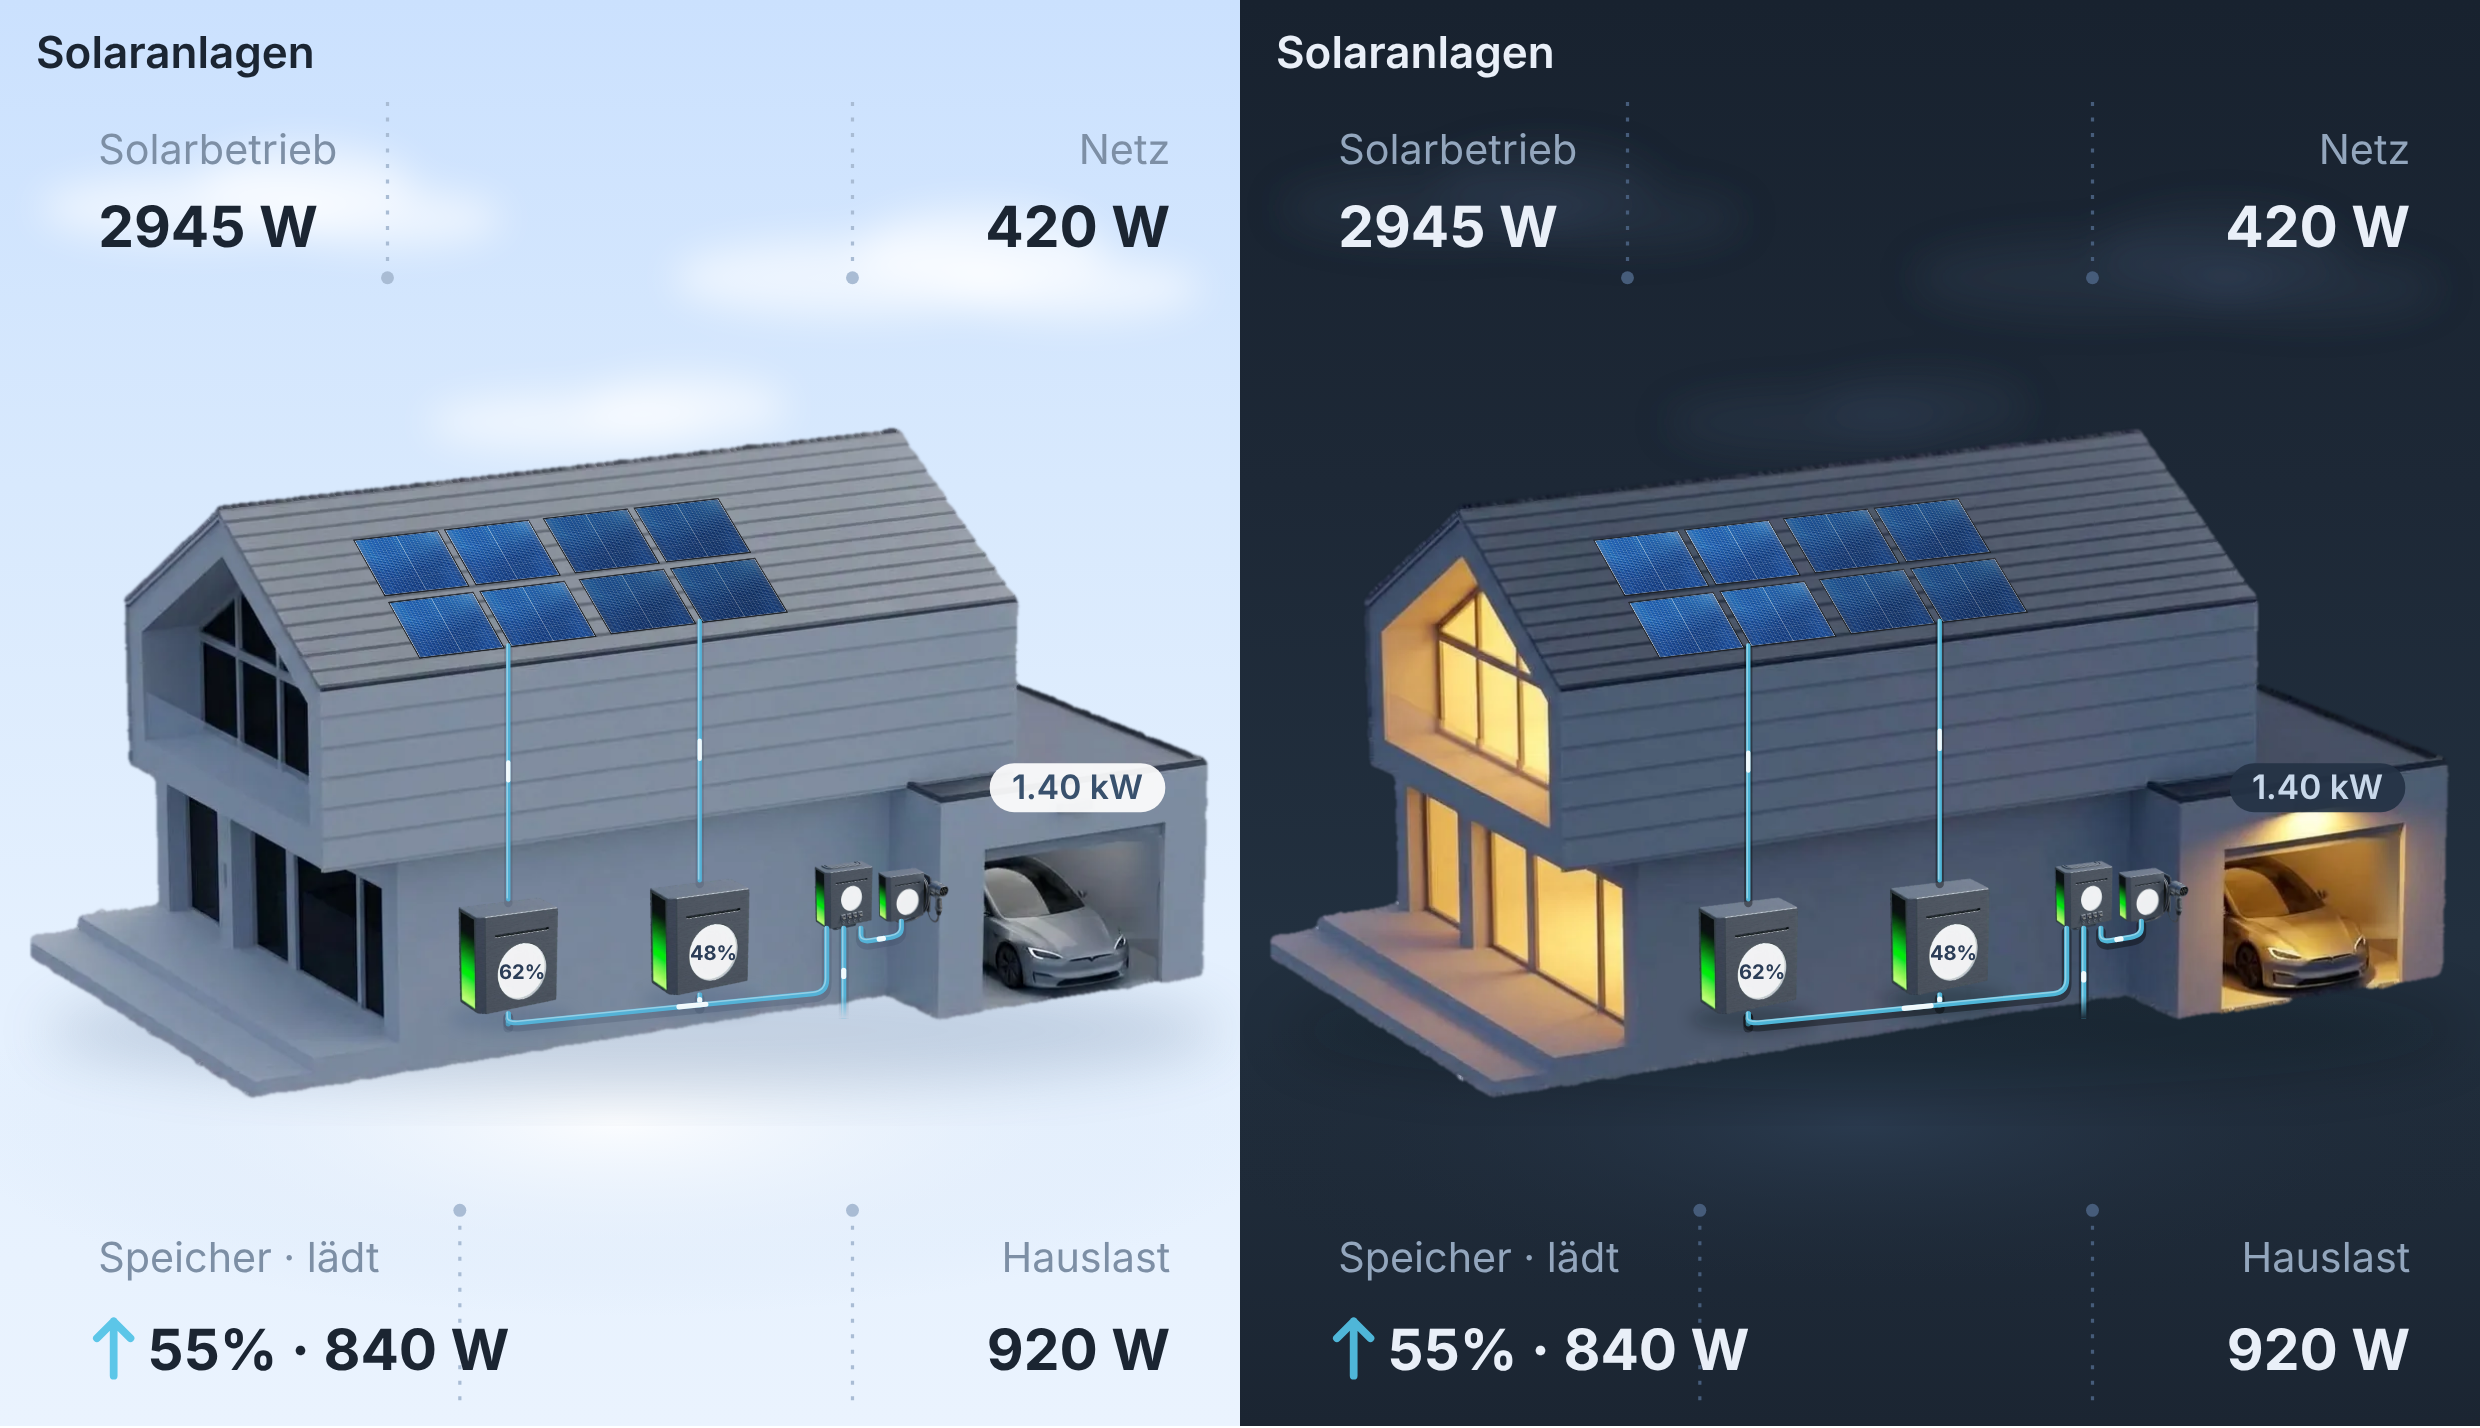
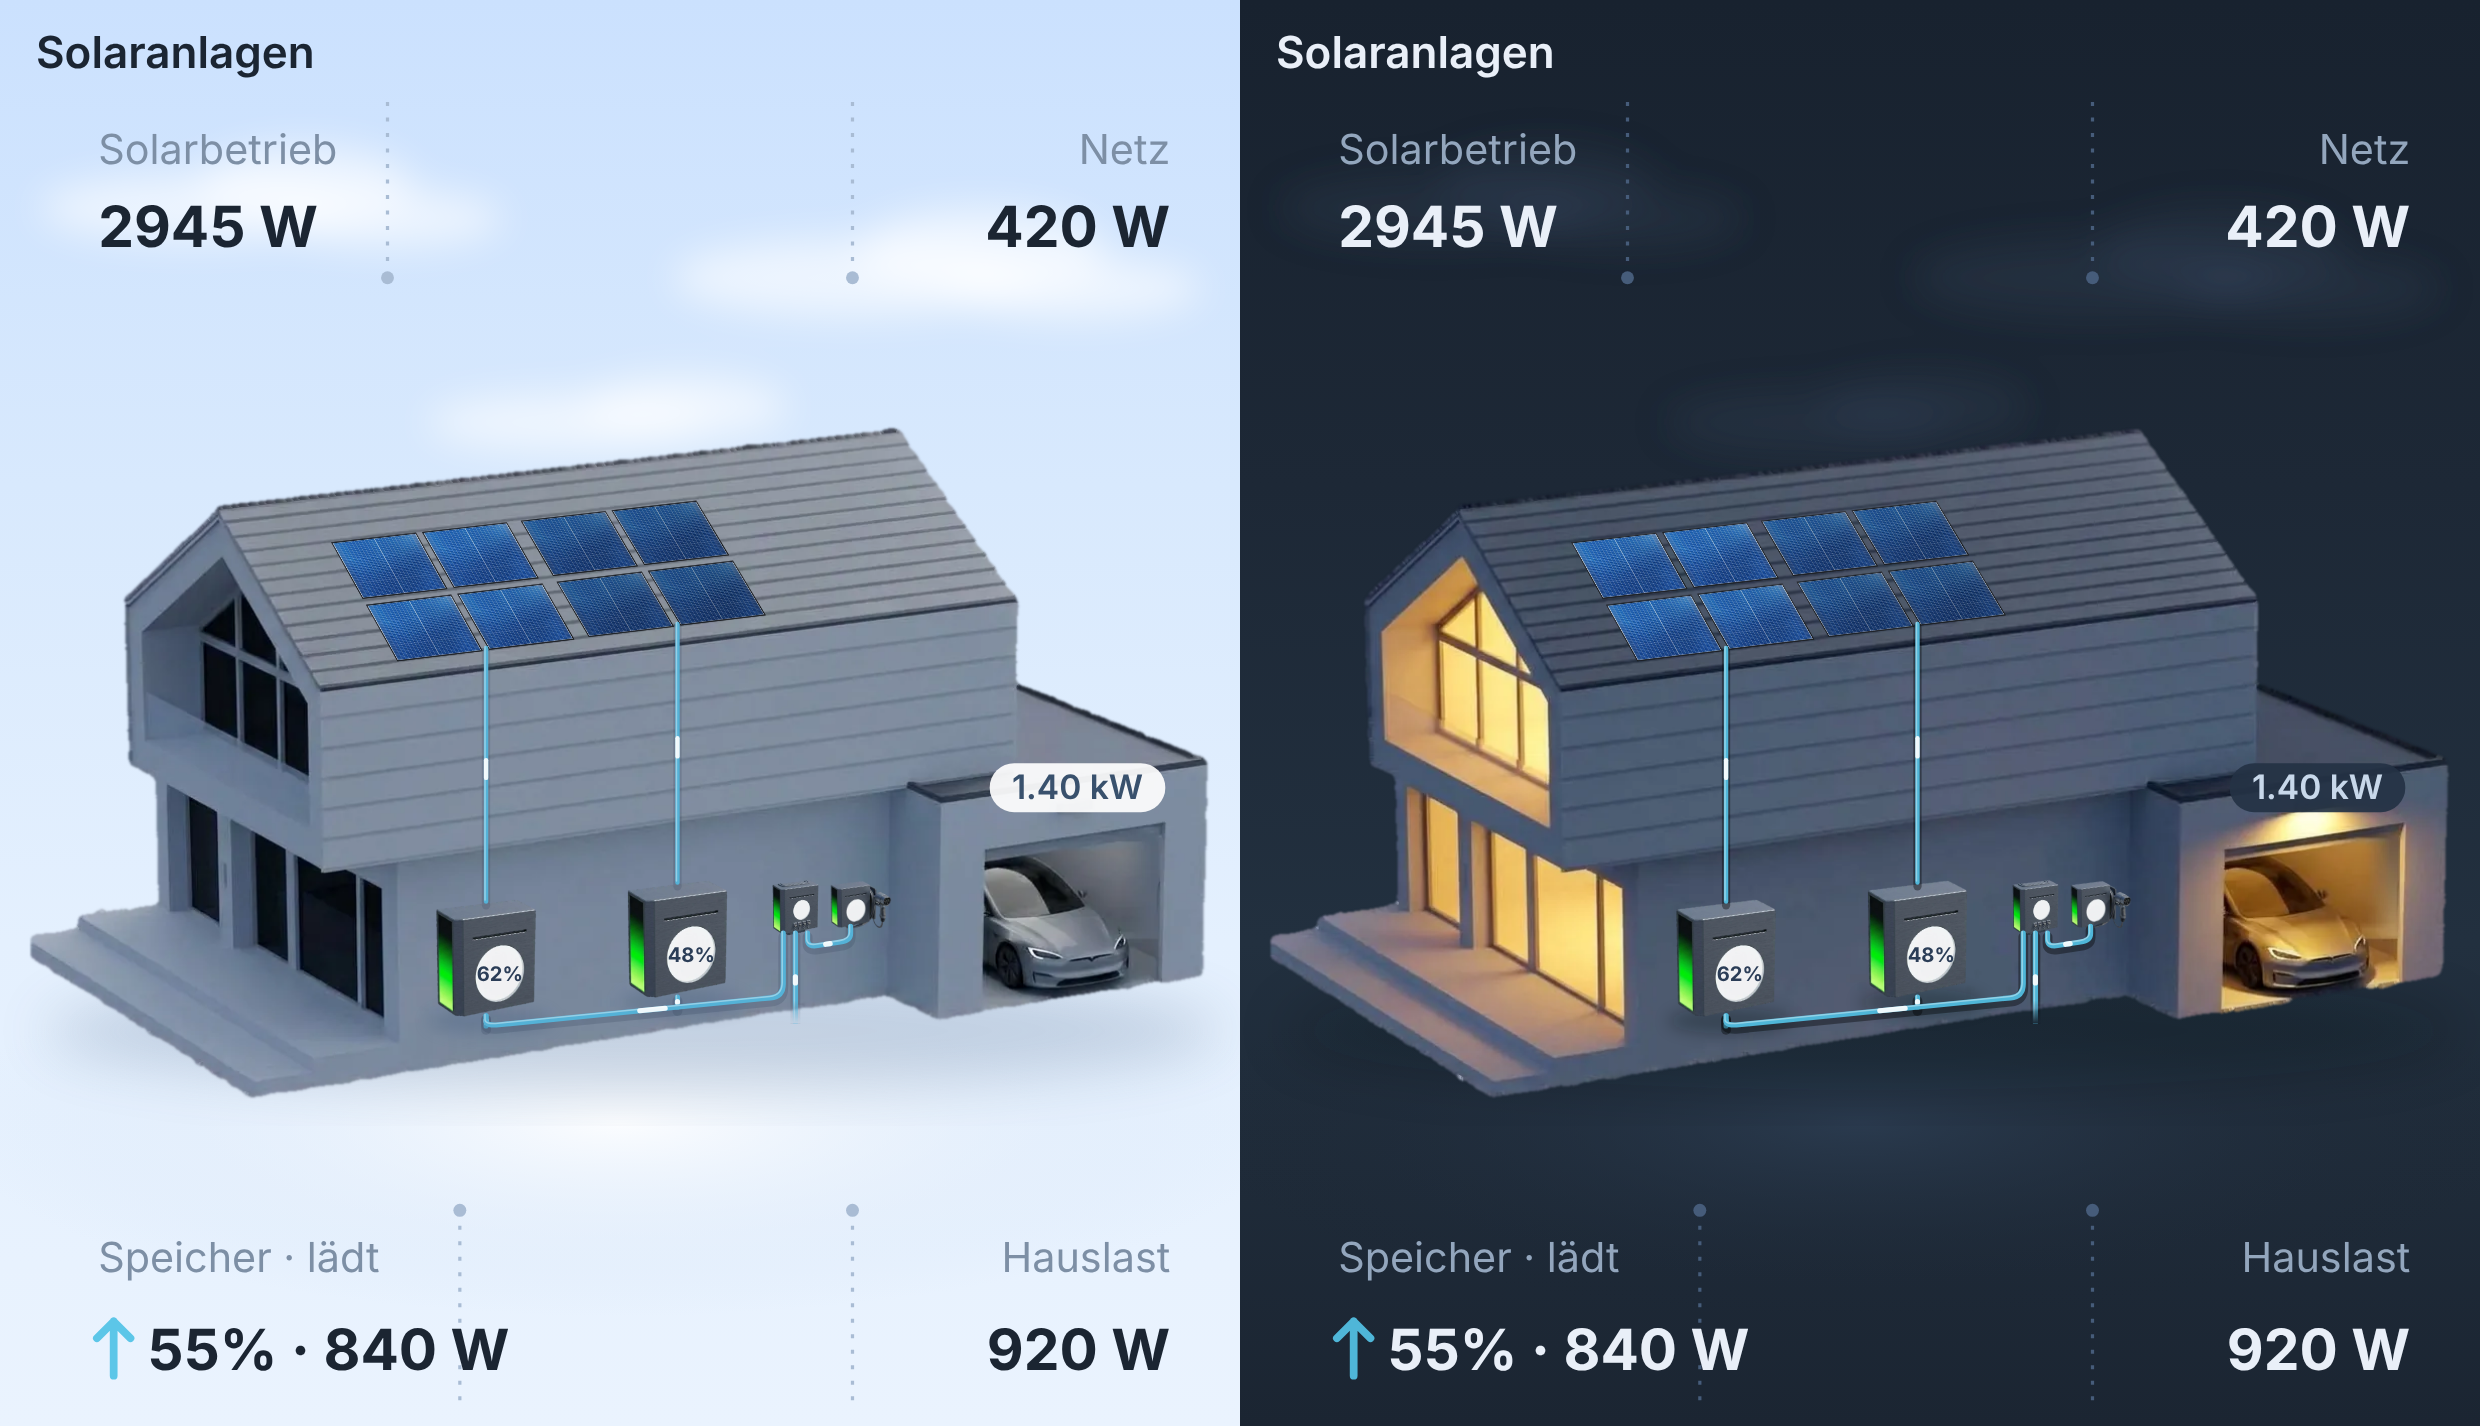
Fit the connection and wallbox on the wall before the garage corner; stack modules for four systems
The main wall ends at x = 853. Four banks now sit closer together so the
connection and the wallbox both hang on it, side by side. With four systems the
modules stack in a column per system, which fills the roof.

Claude-Session: https://claude.ai/code/session_01DWfH8E93u7fDc6zX1M5bHf

Changed region(s): [[0.621, 0.3389, 0.9004, 0.7395], [0.1242, 0.3389, 0.4036, 0.7395]]

diff --git a/src/sonnendeck-card.ts b/src/sonnendeck-card.ts
@@ -449,14 +449,14 @@ const SHEAR = 0.09;
 const RAIL_BAT = -3;
 
 /** where the electrical centre of the wall is */
-const WALL_MID = 570;
+const WALL_MID = 548;
 /**
  * The house connection is the hub; three cables meet its underside: the
  * solarbanks from the left, the supply down the middle, the wallbox to the right.
  */
-const CONN_PORT = 17;
-/** the house connection sits at the right end of the wall */
-const CONN_X = 808;
+const CONN_PORT = 12;
+/** the house connection and the wallbox share the stretch of wall between the banks and the corner at x = 853 */
+const CONN_X = 760;
 /** wall mounted devices hang with their underside this far above the foot of the wall */
 const MOUNT = 62;
 
@@ -469,23 +469,23 @@ interface Box {
 }
 
 /** one block of four modules per solarbank, all in a row on the roof */
-const slotPitch = (n: number): number => [0, 0, 190, 150, 100][Math.min(n, 4)];
+const slotPitch = (n: number): number => [0, 0, 190, 130, 92][Math.min(n, 4)];
 const slotX = (i: number, n: number): number => WALL_MID + (i - (n - 1) / 2) * slotPitch(n);
-const blockW = (n: number): number => [0, 190, 176, 136, 86][Math.min(n, 4)];
+const blockW = (n: number): number => [0, 190, 176, 118, 78][Math.min(n, 4)];
 
 const BANK_ASPECT = 365 / 300;
 const bankBox = (i: number, n: number): Box => {
   const x = slotX(i, n);
-  const w = n >= 4 ? 92 : 100;
+  const w = n >= 4 ? 84 : 100;
   return { x, y: baseY(x) - 10, w, h: w * BANK_ASPECT };
 };
 const DOCK_ASPECT = 418 / 420;
 const dockBox = (): Box => ({ x: WALL_MID, y: baseY(WALL_MID) - 8, w: 150, h: 150 * DOCK_ASPECT });
 const CONN_ASPECT = 370 / 300;
-const connBox = (): Box => ({ x: CONN_X, y: baseY(CONN_X) - MOUNT, w: 58, h: 58 * CONN_ASPECT });
+const connBox = (): Box => ({ x: CONN_X, y: baseY(CONN_X) - MOUNT, w: 46, h: 46 * CONN_ASPECT });
 /** the wallbox hangs on the wall beside the garage; its cable holster sticks out to the right */
 const WALLBOX_ASPECT = 241 / 300;
-const wallboxBox = (): Box => ({ x: 877, y: baseY(877) - MOUNT, w: 70, h: 70 * WALLBOX_ASPECT });
+const wallboxBox = (): Box => ({ x: 825, y: baseY(825) - MOUNT, w: 60, h: 60 * WALLBOX_ASPECT });
 
 /** the picture's top left corner in the card, as a matrix that also applies the shear */
 const placeMatrix = (b: Box, naturalW: number): string => {
@@ -520,31 +520,42 @@ const PV_PIC = { w: 360, h: 219 };
  * and sunlit on top, whose opacity follows the input's power.
  */
 const BLOCK_V1 = 0.9;
+/** four systems leave no width for two columns: the modules stack instead */
+const blockGrid = (n: number): { cols: number; rows: number } =>
+  n >= 4 ? { cols: 1, rows: 4 } : { cols: 2, rows: 2 };
+
 const blockLayout = (s: number, n: number) => {
   const c = slotX(s, n);
   const bw = blockW(n);
+  const { cols, rows } = blockGrid(n);
   // solve for the roof coordinate whose bottom edge lands on x = c
   const x0 = (1 - BLOCK_V1) * ROOF.tl[0] + BLOCK_V1 * ROOF.bl[0];
   const run = (1 - BLOCK_V1) * (ROOF.tr[0] - ROOF.tl[0]) + BLOCK_V1 * (ROOF.br[0] - ROOF.bl[0]);
   const uc = (c - x0) / run;
   const du = bw / run;
   const gap = 6;
-  const pw = (bw - gap) / 2;
-  const ph = pw / 1.5;
   const roofH = 180;
-  const vext = (2 * ph + gap) / roofH;
-  return { uc, du, gap: gap / run, vext, v1: BLOCK_V1, gv: gap / roofH, exit: roofAt(uc, BLOCK_V1) };
+  const pw = (bw - gap * (cols - 1)) / cols;
+  // 1.5 is a module's width over its height; on the foreshortened roof the
+  // stacked layout is allowed to run a little flatter
+  const ph = cols === 1 ? Math.min(pw / 1.5, (0.8 * roofH - gap * (rows - 1)) / rows) : pw / 1.5;
+  const vext = (rows * ph + gap * (rows - 1)) / roofH;
+  return {
+    uc, du, cols, rows,
+    gap: gap / run, vext, v1: BLOCK_V1, gv: gap / roofH,
+    exit: roofAt(uc, BLOCK_V1),
+  };
 };
 
 const panelMarkup = (blocks: number): string => {
   let out = '';
   for (let s = 0; s < blocks; s++) {
     const b = blockLayout(s, blocks);
-    const cw = (b.du - b.gap) / 2;
-    const rh = (b.vext - b.gv) / 2;
+    const cw = (b.du - b.gap * (b.cols - 1)) / b.cols;
+    const rh = (b.vext - b.gv * (b.rows - 1)) / b.rows;
     for (let k = 0; k < 4; k++) {
-      const u0 = b.uc - b.du / 2 + (k % 2) * (cw + b.gap);
-      const v0 = b.v1 - b.vext + Math.floor(k / 2) * (rh + b.gv);
+      const u0 = b.uc - b.du / 2 + (k % b.cols) * (cw + b.gap);
+      const v0 = b.v1 - b.vext + Math.floor(k / b.cols) * (rh + b.gv);
       const tl = at(...roofAt(u0, v0));
       const tr = at(...roofAt(u0 + cw, v0));
       const bl = at(...roofAt(u0, v0 + rh));

diff --git a/dist/sonnendeck-card.js b/dist/sonnendeck-card.js
@@ -279,33 +279,33 @@ const SHEAR = 0.09;
 /** the AC cable runs along the foot of the wall, on the house's own edge */
 const RAIL_BAT = -3;
 /** where the electrical centre of the wall is */
-const WALL_MID = 570;
+const WALL_MID = 548;
 /**
  * The house connection is the hub; three cables meet its underside: the
  * solarbanks from the left, the supply down the middle, the wallbox to the right.
  */
-const CONN_PORT = 17;
-/** the house connection sits at the right end of the wall */
-const CONN_X = 808;
+const CONN_PORT = 12;
+/** the house connection and the wallbox share the stretch of wall between the banks and the corner at x = 853 */
+const CONN_X = 760;
 /** wall mounted devices hang with their underside this far above the foot of the wall */
 const MOUNT = 62;
 /** one block of four modules per solarbank, all in a row on the roof */
-const slotPitch = (n) => [0, 0, 190, 150, 100][Math.min(n, 4)];
+const slotPitch = (n) => [0, 0, 190, 130, 92][Math.min(n, 4)];
 const slotX = (i, n) => WALL_MID + (i - (n - 1) / 2) * slotPitch(n);
-const blockW = (n) => [0, 190, 176, 136, 86][Math.min(n, 4)];
+const blockW = (n) => [0, 190, 176, 118, 78][Math.min(n, 4)];
 const BANK_ASPECT = 365 / 300;
 const bankBox = (i, n) => {
     const x = slotX(i, n);
-    const w = n >= 4 ? 92 : 100;
+    const w = n >= 4 ? 84 : 100;
     return { x, y: baseY(x) - 10, w, h: w * BANK_ASPECT };
 };
 const DOCK_ASPECT = 418 / 420;
 const dockBox = () => ({ x: WALL_MID, y: baseY(WALL_MID) - 8, w: 150, h: 150 * DOCK_ASPECT });
 const CONN_ASPECT = 370 / 300;
-const connBox = () => ({ x: CONN_X, y: baseY(CONN_X) - MOUNT, w: 58, h: 58 * CONN_ASPECT });
+const connBox = () => ({ x: CONN_X, y: baseY(CONN_X) - MOUNT, w: 46, h: 46 * CONN_ASPECT });
 /** the wallbox hangs on the wall beside the garage; its cable holster sticks out to the right */
 const WALLBOX_ASPECT = 241 / 300;
-const wallboxBox = () => ({ x: 877, y: baseY(877) - MOUNT, w: 70, h: 70 * WALLBOX_ASPECT });
+const wallboxBox = () => ({ x: 825, y: baseY(825) - MOUNT, w: 60, h: 60 * WALLBOX_ASPECT });
 /** the picture's top left corner in the card, as a matrix that also applies the shear */
 const placeMatrix = (b, naturalW) => {
     const k = (b.w / naturalW) * PLACE.s;
@@ -332,30 +332,39 @@ const PV_PIC = { w: 360, h: 219 };
  * and sunlit on top, whose opacity follows the input's power.
  */
 const BLOCK_V1 = 0.9;
+/** four systems leave no width for two columns: the modules stack instead */
+const blockGrid = (n) => n >= 4 ? { cols: 1, rows: 4 } : { cols: 2, rows: 2 };
 const blockLayout = (s, n) => {
     const c = slotX(s, n);
     const bw = blockW(n);
+    const { cols, rows } = blockGrid(n);
     // solve for the roof coordinate whose bottom edge lands on x = c
     const x0 = (1 - BLOCK_V1) * ROOF.tl[0] + BLOCK_V1 * ROOF.bl[0];
     const run = (1 - BLOCK_V1) * (ROOF.tr[0] - ROOF.tl[0]) + BLOCK_V1 * (ROOF.br[0] - ROOF.bl[0]);
     const uc = (c - x0) / run;
     const du = bw / run;
     const gap = 6;
-    const pw = (bw - gap) / 2;
-    const ph = pw / 1.5;
     const roofH = 180;
-    const vext = (2 * ph + gap) / roofH;
-    return { uc, du, gap: gap / run, vext, v1: BLOCK_V1, gv: gap / roofH, exit: roofAt(uc, BLOCK_V1) };
+    const pw = (bw - gap * (cols - 1)) / cols;
+    // 1.5 is a module's width over its height; on the foreshortened roof the
+    // stacked layout is allowed to run a little flatter
+    const ph = cols === 1 ? Math.min(pw / 1.5, (0.8 * roofH - gap * (rows - 1)) / rows) : pw / 1.5;
+    const vext = (rows * ph + gap * (rows - 1)) / roofH;
+    return {
+        uc, du, cols, rows,
+        gap: gap / run, vext, v1: BLOCK_V1, gv: gap / roofH,
+        exit: roofAt(uc, BLOCK_V1),
+    };
 };
 const panelMarkup = (blocks) => {
     let out = '';
     for (let s = 0; s < blocks; s++) {
         const b = blockLayout(s, blocks);
-        const cw = (b.du - b.gap) / 2;
-        const rh = (b.vext - b.gv) / 2;
+        const cw = (b.du - b.gap * (b.cols - 1)) / b.cols;
+        const rh = (b.vext - b.gv * (b.rows - 1)) / b.rows;
         for (let k = 0; k < 4; k++) {
-            const u0 = b.uc - b.du / 2 + (k % 2) * (cw + b.gap);
-            const v0 = b.v1 - b.vext + Math.floor(k / 2) * (rh + b.gv);
+            const u0 = b.uc - b.du / 2 + (k % b.cols) * (cw + b.gap);
+            const v0 = b.v1 - b.vext + Math.floor(k / b.cols) * (rh + b.gv);
             const tl = at(...roofAt(u0, v0));
             const tr = at(...roofAt(u0 + cw, v0));
             const bl = at(...roofAt(u0, v0 + rh));
